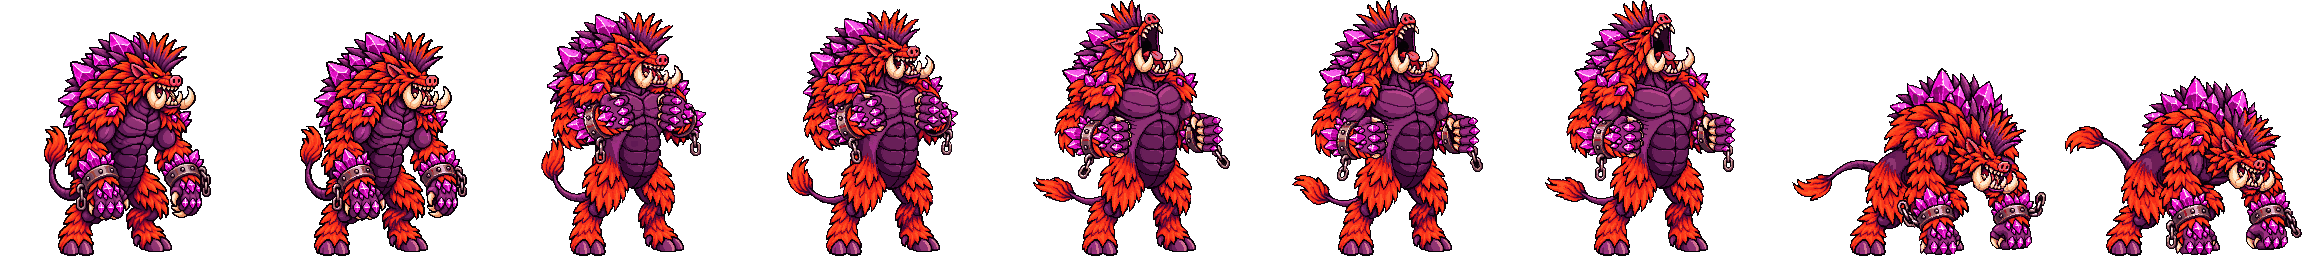
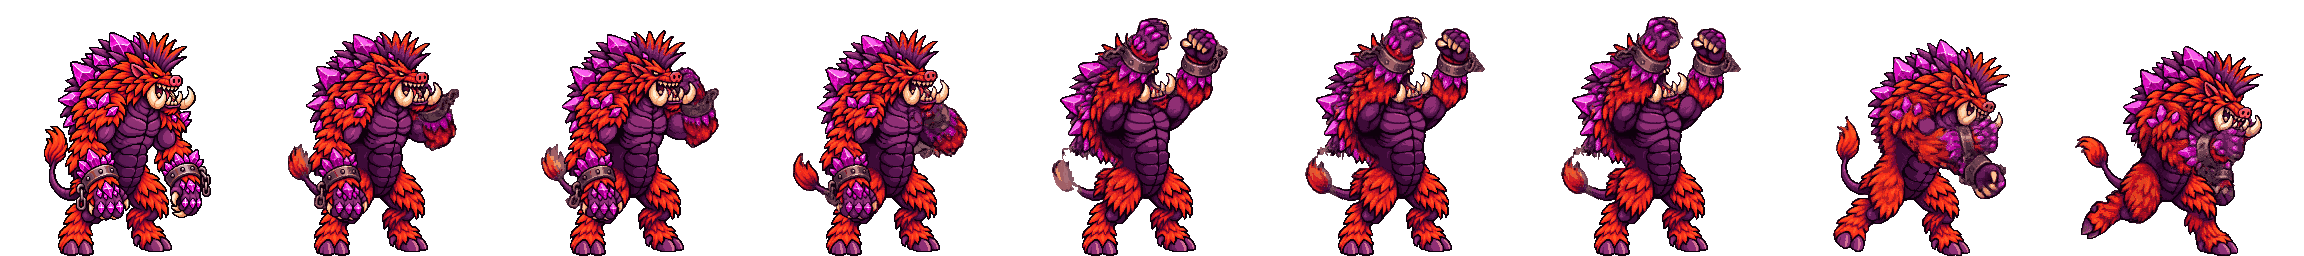
Redo Kaiban Stage 3 Stampede roar in profile, ending on the run
The old roar turned front-on mid-bellow, clipped the head out of the
top of the frame and popped from upright to a knuckle stance in one
frame. The new one is skeleton-posed and kept in strict profile (only
the near fist pounds the chest; the bellow raises both fists overhead,
since spread arms made PixelLab turn him to the camera): base, chest
pounds, head thrown back on impact frame 5 (held on 6), a lean-in from
a second seed, and the run's first frame, so the charge loop picks up
without a pop. Bottom-aligned, 107px of pinholes filled.

Claude-Session: https://claude.ai/code/session_01SJ9dCxMi1cLoxfnMZCMfem

diff --git a/src/presentation.ts b/src/presentation.ts
@@ -108,9 +108,10 @@ const KAIBAN_S3:Form={width:80,anims:{idle:{src:'assets/kaiban-s3-idle.png',fram
  carry:{src:'assets/kaiban-s3-carry.png',frames:4,fps:6,...KB3_LIFT,hold:[[107,2],[108,2],[109,2],[108,2]]},
  carryWalk:{src:'assets/kaiban-s3-carry-walk.png',frames:8,fps:10,...KB3_LIFT,hold:[[107,2],[107,0],[107,0],[107,0],[106,0],[107,0],[107,0],[107,0]]},
  throw:{src:'assets/kaiban-s3-throw.png',frames:6,fps:14,once:true,...KB3_LIFT},
- // Ultimate (Stampede). Roar: rises to full height, pounds the fists on the chest, throws the head back and bellows (impact frame 5),
- // then drops into a head-down knuckle charge stance (frames 0,3,4,5,7,8,11,14,16 of a 16-frame generation). Pound: the charge loop,
- // a goring gorilla gallop from that stance (frames 2-9 of a 12-frame generation; the near-still ends were dropped).
+ // Ultimate (Stampede). Roar, skeleton-posed (tools/kaiban_s3_charge_poses.py) and kept in strict profile: from the base he pounds the
+ // near fist on his chest, throws his head back and bellows with both fists raised overhead (impact frame 5, held on 6), leans in
+ // (frame 7, from a second seed) and lands on the run's first frame (8), so the charge loop picks up seamlessly. Pound: the charge loop
+ // is the Gore Charge run.
  ultRoar:{src:'assets/kaiban-s3-ult-roar.png',frames:9,fps:14,once:true,impact:5,...KB3_NATIVE},ultPound:{src:'assets/kaiban-s3-run.png',frames:8,fps:16,...KB3_HEAVY},
  // Gore Charge run, skeleton-posed (tools/kaiban_s3_charge_poses.py, base shifted 20px left): he stays upright like the walk, so
  // walk/run swap without a silhouette pop. Torso pitched forward, head down so the tusks lead, long strides, fists pumping opposite
